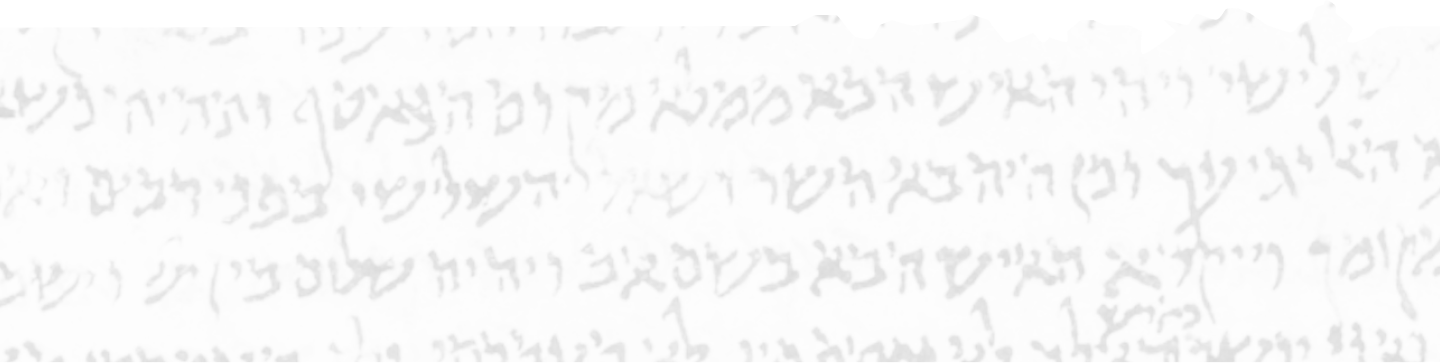
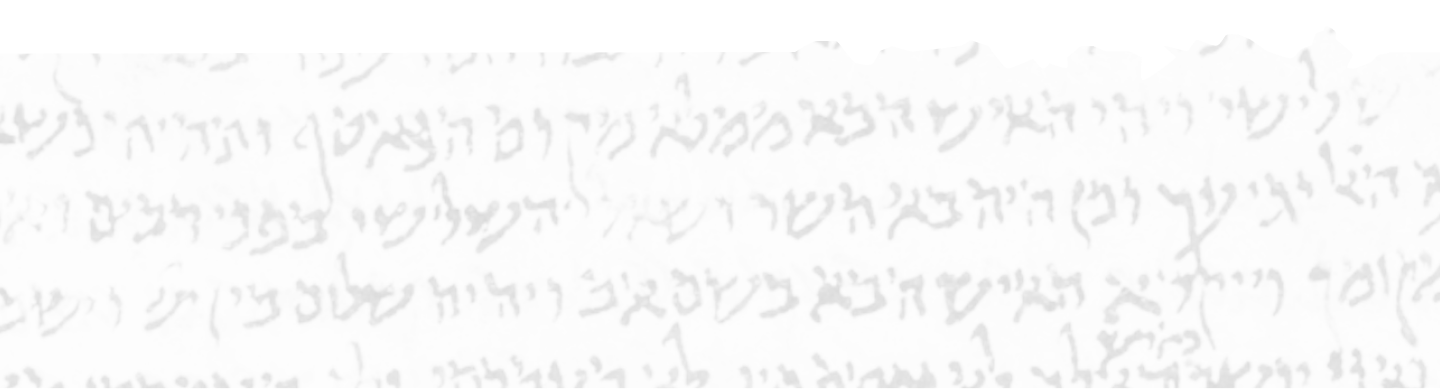
#397 - Align background images for footer

diff --git a/sitemedia/scss/components/_footer.scss b/sitemedia/scss/components/_footer.scss
@@ -2,6 +2,7 @@
 // Site footer that appears on every page.
 // -----------------------------------------------------------------------------
 
+@use "../base/breakpoints";
 @use "../base/spacing";
 @use "../base/typography";
 
@@ -17,20 +18,16 @@
 }
 
 footer {
-    @include typography.meta;
     * {
         max-width: 100%;
     }
+    @include typography.meta;
     text-align: center;
+    @include breakpoints.for-tablet-landscape-up {
+        margin-top: spacing.$spacing-2xl;
+    }
 
-    // footer background
-    background: url("/static/img/ui/mobile/dark/footer-gradient.svg") top,
-        url("/static/img/ui/mobile/dark/footer-image.png") top,
-        url("/static/img/ui/mobile/dark/footer-base.svg") top;
-    background-repeat: no-repeat, no-repeat, no-repeat;
-    background-size: 100% auto, 100% auto, 100% auto;
-
-    // footer site navigation
+    // footer site navigation (mobile)
     nav#footer-nav {
         padding: 25% 17.5% 0; // Use percentages to scale with background
         text-align: left;
@@ -55,6 +52,10 @@ footer {
                     }
                 }
             }
+        }
+        // footer site navigation (desktop)
+        @include breakpoints.for-tablet-landscape-up {
+            padding: 0;
         }
     }
 
@@ -127,4 +128,63 @@ footer {
             height: 63px;
         }
     }
+}
+// Footer backgrounds for light and dark mode, mobile
+@mixin footer-background-mobile-dark {
+    background: url("/static/img/ui/mobile/dark/footer-gradient.svg") top,
+        url("/static/img/ui/mobile/dark/footer-image.png") top,
+        url("/static/img/ui/mobile/dark/footer-base.svg") top;
+    background-repeat: no-repeat, no-repeat, no-repeat;
+    background-size: 100% auto, 100% auto, 100% auto;
+}
+@mixin footer-background-mobile-light {
+    background: url("/static/img/ui/mobile/light/footer-gradient.svg") top,
+        url("/static/img/ui/mobile/light/footer-image.png") top,
+        url("/static/img/ui/mobile/light/footer-base.svg") top;
+    background-repeat: no-repeat, no-repeat, no-repeat;
+    background-size: 100% auto, 100% auto, 100% auto;
+}
+
+// Footer backgrounds for light and dark mode, desktop
+@mixin footer-background-desktop-dark {
+    background: url("/static/img/ui/desktop/dark/footer-gradient.svg") top,
+        url("/static/img/ui/desktop/dark/footer-image.png") top,
+        url("/static/img/ui/desktop/dark/footer-base.svg") top;
+    background-repeat: no-repeat, no-repeat, no-repeat;
+}
+@mixin footer-background-desktop-light {
+    background: //url("/static/img/ui/desktop/light/footer-gradient.svg") top,
+        url("/static/img/ui/desktop/light/footer-image.png") top,
+        url("/static/img/ui/desktop/light/footer-base.svg") top;
+    background-repeat: no-repeat, no-repeat, no-repeat;
+}
+
+// Nav theme overrides for light mode
+@mixin light-footer {
+    @include footer-background-mobile-light;
+    @include breakpoints.for-tablet-landscape-up {
+        @include footer-background-desktop-light;
+    }
+}
+// Nav theme overrides for dark mode
+@mixin dark-footer {
+    @include footer-background-mobile-dark;
+    @include breakpoints.for-tablet-landscape-up {
+        @include footer-background-desktop-dark;
+    }
+}
+// Applying background image and gradient per system theme
+footer {
+    @include light-footer;
+    @media (prefers-color-scheme: dark) {
+        @include dark-footer;
+    }
+}
+
+// Manual (body-class based) theme overrides
+body.light-mode footer {
+    @include light-footer;
+}
+body.dark-mode footer {
+    @include dark-footer;
 }
